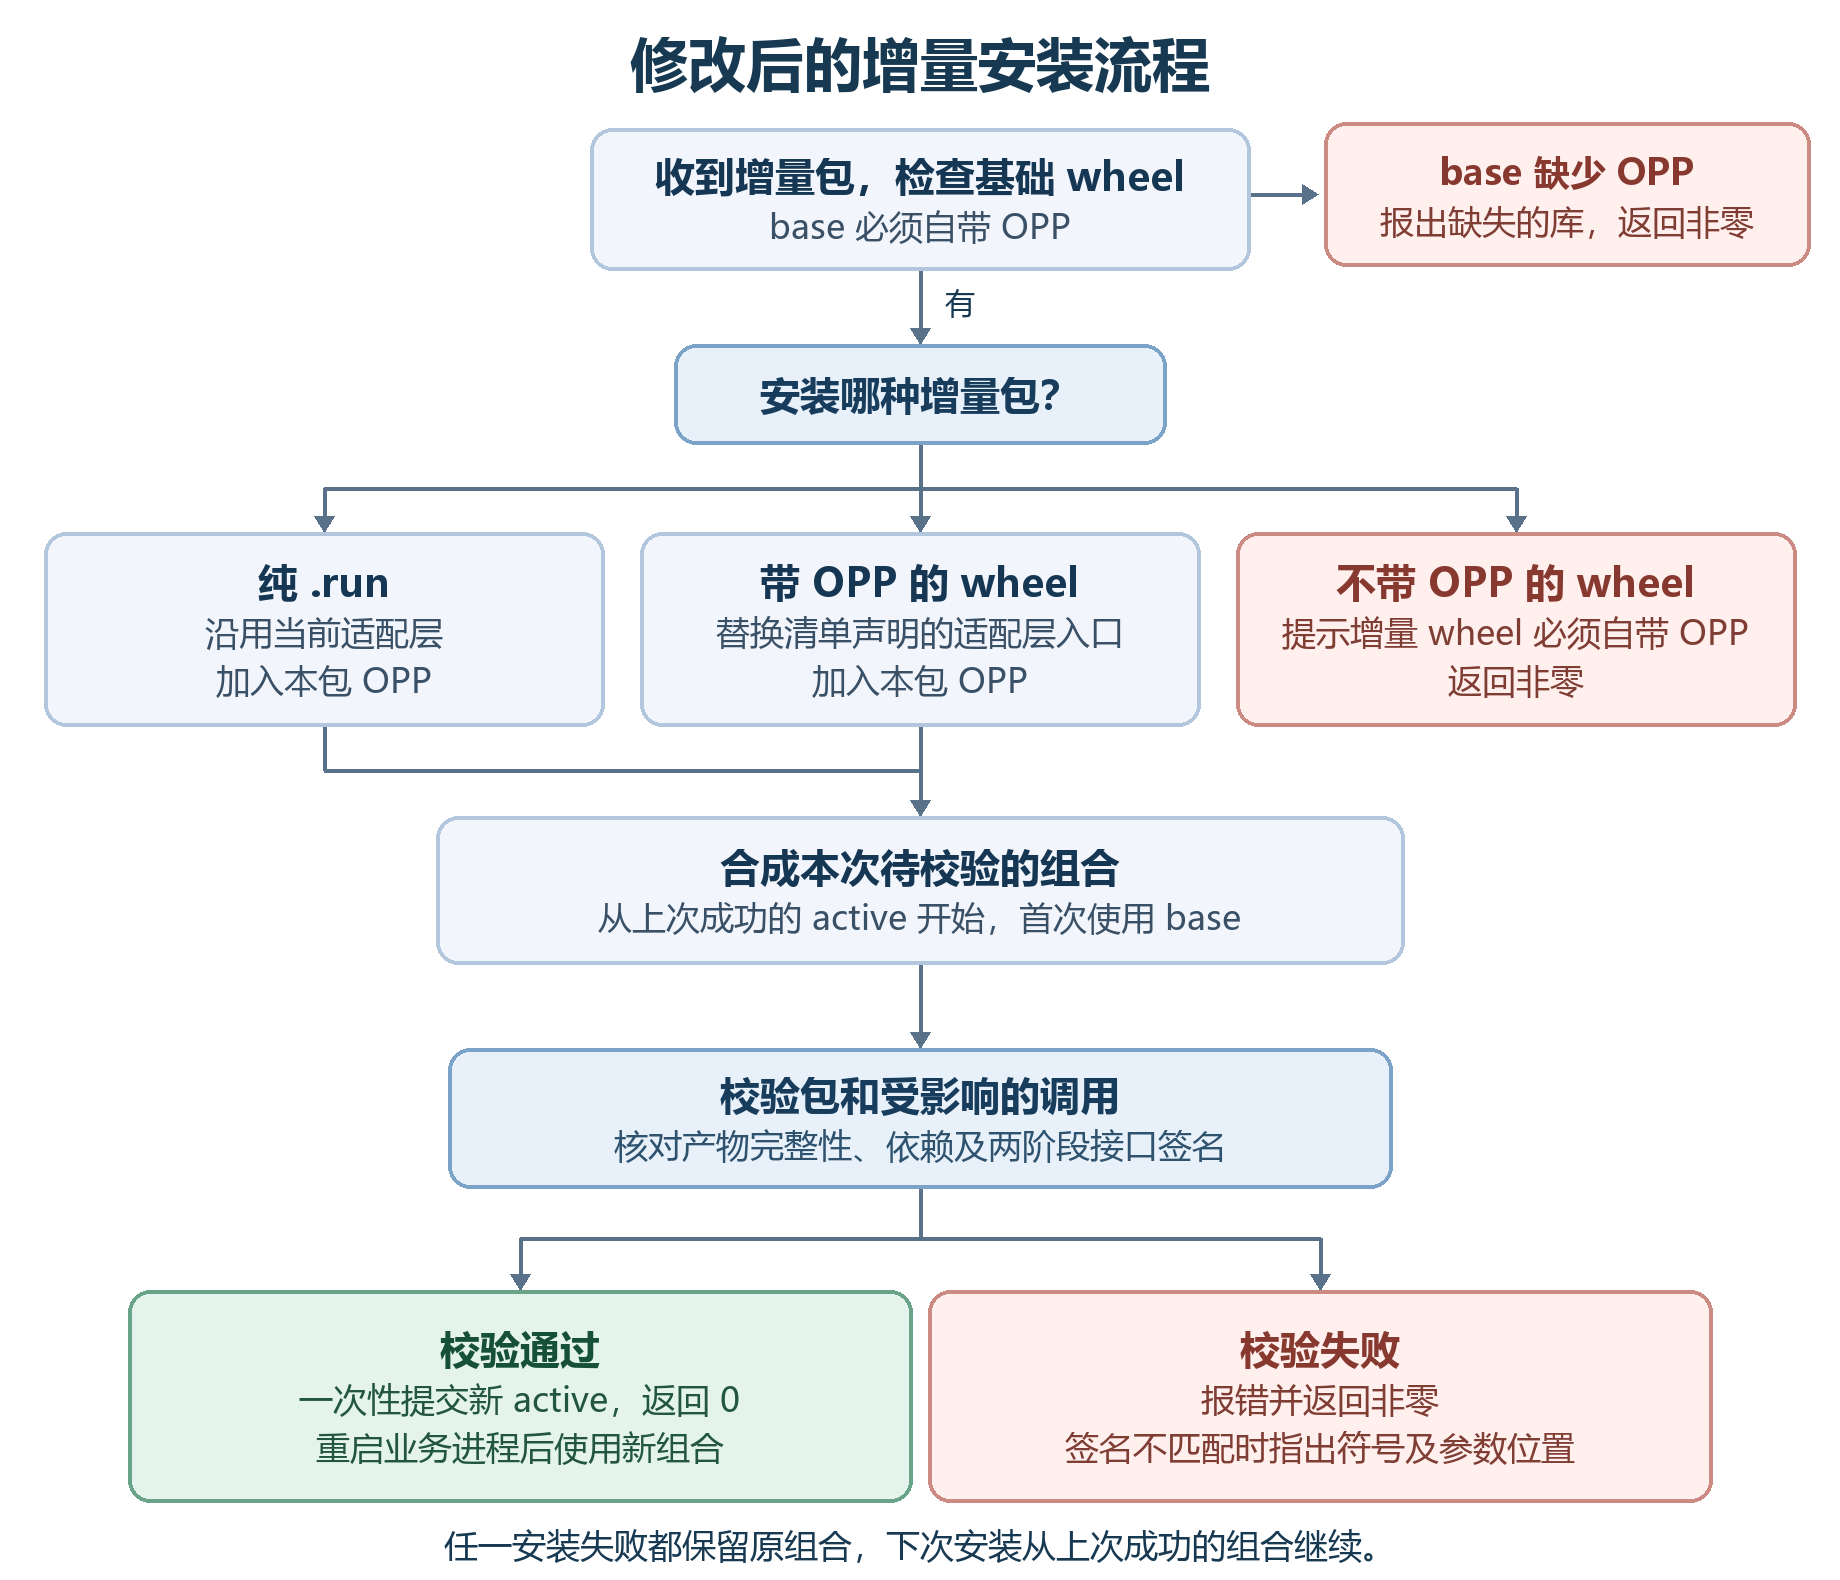
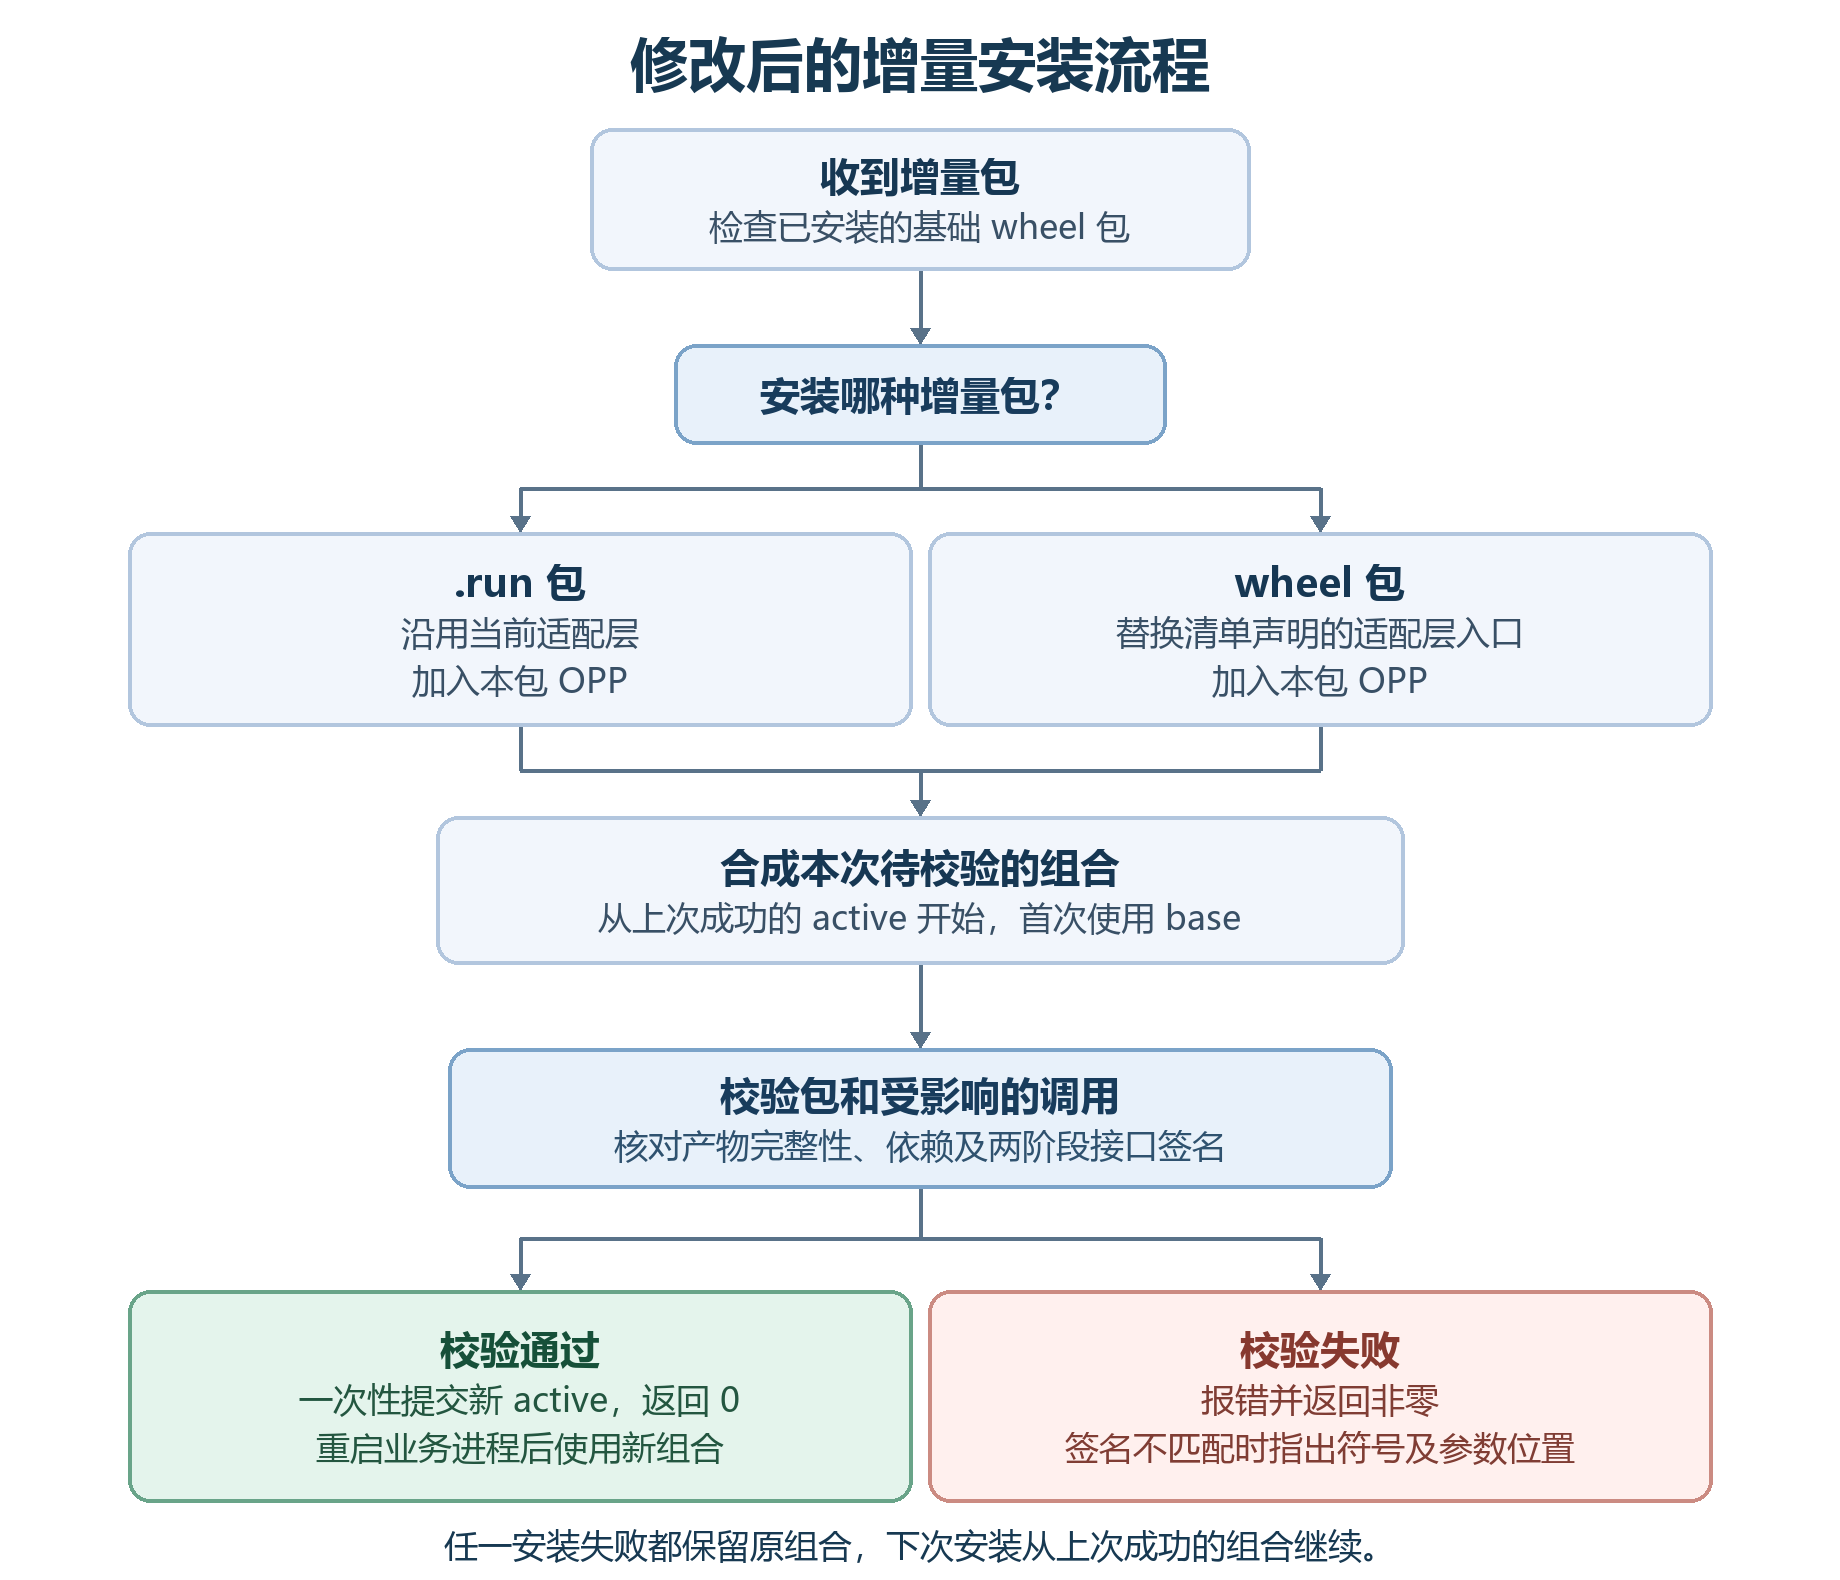
Document a single wheel delivery format for overlay installs

diff --git a/docs/Wheel增量安装指南.md b/docs/Wheel增量安装指南.md
@@ -11,7 +11,7 @@
 python -m pip install --force-reinstall --no-deps /path/to/base.whl
 ```
 
-基础 wheel 必须自带 OPP 和增量管理器。安装器检查 base 自身的
+基础 wheel 包提供 OPP 和增量管理器。安装器会检查包内的
 `fla_npu/opp/vendors/fla_npu_transformer/op_api/lib/libcust_opapi.so`。缺少它时，安装 `.run` 或增量 wheel 均会报错。
 旧 base 需要先升级，安装增量包不会升级 base 的管理器。
 
@@ -25,16 +25,16 @@ python -m pip install --force-reinstall --no-deps /path/to/base.whl
 | 增量包 | 本次更新 | 保留什么 |
 | --- | --- | --- |
 | run-only（`.run`） | 包内算子的 OPP | 已有适配层，以及未覆盖的 OPP |
-| 携带 OPP 的 wheel | 声明的适配层入口和包内 OPP | 未覆盖的适配层入口及 OPP |
+| wheel 包 | 声明的适配层入口和包内 OPP | 未覆盖的适配层入口及 OPP |
 
 **普通 `pip install 新wheel` 更新整个 base。** 要把 wheel 作为增量安装，使用下文的
-`python -m fla_npu_opp_manage --overlay --source ...`。增量 wheel 必须携带 OPP。
+`python -m fla_npu_opp_manage --overlay --source ...`。
 
 ### 2.1 增量安装流程
 
 每次安装都从上次成功的组合（`active`）开始。首次安装从基础 wheel（`base`）开始。如果本次失败，后续安装仍从同一个起点继续，失败的包需要修正后重新安装。
 
-![增量安装流程。基础 wheel 自带 OPP 时可安装 .run 或带 OPP 的 wheel，校验成功更新 active，失败保留原组合。](assets/wheel-overlay-install-after.png)
+![增量安装流程。安装 .run 包或 wheel 包，校验成功更新 active，失败保留原组合。](assets/wheel-overlay-install-after.png)
 
 [查看修改前的安装流程（PNG）](assets/wheel-overlay-install-before.png)
 
@@ -72,11 +72,11 @@ OPP 查找顺序为 **B1 → A1 → base**：B1 中没有 A，就继续查找 A1
 python -m fla_npu_opp_manage --overlay --source /path/to/A1.run
 ```
 
-### 3.2 安装一次带 OPP 的 wheel，再安装第二次
+### 3.2 连续安装两个 wheel 包
 
 ```bash
-python -m fla_npu_opp_manage --overlay --source /path/to/A1-with-opp.whl
-python -m fla_npu_opp_manage --overlay --source /path/to/B1-with-opp.whl
+python -m fla_npu_opp_manage --overlay --source /path/to/A1.whl
+python -m fla_npu_opp_manage --overlay --source /path/to/B1.whl
 ```
 
 | 安装到哪一步 | A 使用的版本 | B 使用的版本 |
@@ -94,8 +94,8 @@ python -m fla_npu_opp_manage --overlay --source /path/to/B1-with-opp.whl
 | 安装顺序 | A 的适配层 / OPP | B 的适配层 / OPP |
 | --- | --- | --- |
 | ① A1.run | base / A1 | base / B0 |
-| ② 带 OPP 的 B1 wheel | base / A1 | B1 / B1 |
-| ③ 带 OPP 的 A2 wheel | A2 / A2 | B1 / B1 |
+| ② B1 wheel 包 | base / A1 | B1 / B1 |
+| ③ A2 wheel 包 | A2 / A2 | B1 / B1 |
 
 若把 A1.run 放在 A2 wheel 之后，A 将使用 A2 适配层。只有 A1 OPP 仍满足它的 ABI，安装才成功。
 若第二包失败，第三包直接接在第一包上。修正第二包后需要显式重装它。
@@ -121,7 +121,7 @@ python -m fla_npu_opp_manage --remove-overlay
 [fla-npu] installed OPP: /.../wheel_layers/<本次层ID>/fla_npu/opp/vendors/fla_npu_transformer
 ```
 
-带 OPP 的 wheel 显示 `artifact=wheel`。在新进程运行相同输入的算子用例，
+wheel 包显示 `artifact=wheel`。在新进程运行相同输入的算子用例，
 检查是否得到新版本的预期结果。移除后再开新进程，A、B 均恢复 base 版本。
 
 升级或卸载 base 前，先执行上述移除命令。
@@ -138,7 +138,7 @@ python -m fla_npu_opp_manage --remove-overlay
 bash build.sh --pkg --soc=ascend910b --vendor_name=fla_npu --ops=chunk_fwd_o
 ```
 
-**带 OPP 的 wheel：** 在仓库根目录同时指定 OPP 范围和适配层入口范围。
+**wheel 包：** 在仓库根目录同时指定 OPP 范围和适配层入口范围。
 
 ```bash
 FLA_NPU_SOC=ascend910b FLA_NPU_OPS=chunk_fwd_o \
@@ -157,7 +157,7 @@ FLA_NPU_OVERLAY_OPS=chunk_fwd_o python scripts/build_wheel.py
 | 情况 | 命令结果 | 下次安装从哪里继续 |
 | --- | --- | --- |
 | 所有受影响入口的两阶段符号与签名匹配 | 成功，提交新组合 | 本次组合 |
-| wheel 缺少内嵌 OPP、缺少依赖、签名不匹配或文件校验失败 | 非零退出并显示原因 | 上次成功组合，首次安装失败时从 base 继续 |
+| 包内容不完整、缺少依赖、签名不匹配或文件校验失败 | 非零退出并显示原因 | 上次成功组合，首次安装失败时从 base 继续 |
 | 移除全部增量 | 清空选中组合 | base |
 
 升级时沿用旧状态中的 `active`，忽略旧 `pending`。旧候选需要重新提交安装。

diff --git a/docs/architecture/torch-npu-decoupled-architecture.md b/docs/architecture/torch-npu-decoupled-architecture.md
@@ -134,7 +134,7 @@ Python ctypes 执行后端已删除；标准库 `ctypes.CDLL` 仍可用于加载
 支持 wheel overlay 的 launcher 在加载和指纹检查后，通过 `fla_npu_stable_register(namespace, paths)`
 显式注册 `StableLibrary` schema/impl，并绑定选定的 OPP 库列表。base 与增量层使用不同 dispatcher
 命名空间，因此允许同名公共入口具有不同 schema；公共 wrapper 负责选择对应层。
-适配层和 OPP 独立保存。run 只更新 OPP，携带 OPP 的 wheel 同时更新声明的适配层入口和 OPP。
+适配层和 OPP 独立保存。run 只更新 OPP，wheel 包同时更新声明的适配层入口和 OPP。
 后安装的同类组件优先，每次从已生效的组合继承，通过兼容性检查后原子切换，失败返回非零。
 OPP 列表保留历史增量，按最新→较早→base 逐符号查找，与 CANN 的 vendor 顺序一致；
 同名符号按首个提供者检查 ABI，不因不匹配跳过该包。适配层也按新到旧保留列表，

diff --git a/torch_custom/fla_npu/README.md b/torch_custom/fla_npu/README.md
@@ -139,9 +139,9 @@ python3 torch_custom/fla_npu/csrc/build_stable.py --out /tmp/libfla_npu_stable.s
 
 ## 4. 构建与交付约束
 
-`python setup.py bdist_wheel` 在实际构建阶段编译 launcher，读取包元数据不会触发编译。
+在仓库根目录执行 `python scripts/build_wheel.py` 构建 wheel 包。构建阶段会编译 launcher，读取包元数据不会触发编译。
 构建需要 CANN/编译工具及 torch 链接库；不运行 torchnpugen，不依赖 torch_npu 代码生成。
-子目录与根目录均生成按 a2/a3/a5 命名的 `py3-none-manylinux_2_34_<arch>` wheel，必须包含
+按目标档位生成的 `py3-none-manylinux_2_34_<arch>` wheel 包必须包含
 `libfla_npu_stable.so`、匹配的 `_stable_hash.py`、档位元数据以及 torch/torch_npu 运行时最低依赖。
 已有目标 SoC 的 `.run` 后，在本目录执行 `FLA_NPU_SOC=<soc> bash build.sh` 会把 OPP 嵌入 wheel，再通过 pip 安装。这个 wheel 可用作增量安装的 base。
 
